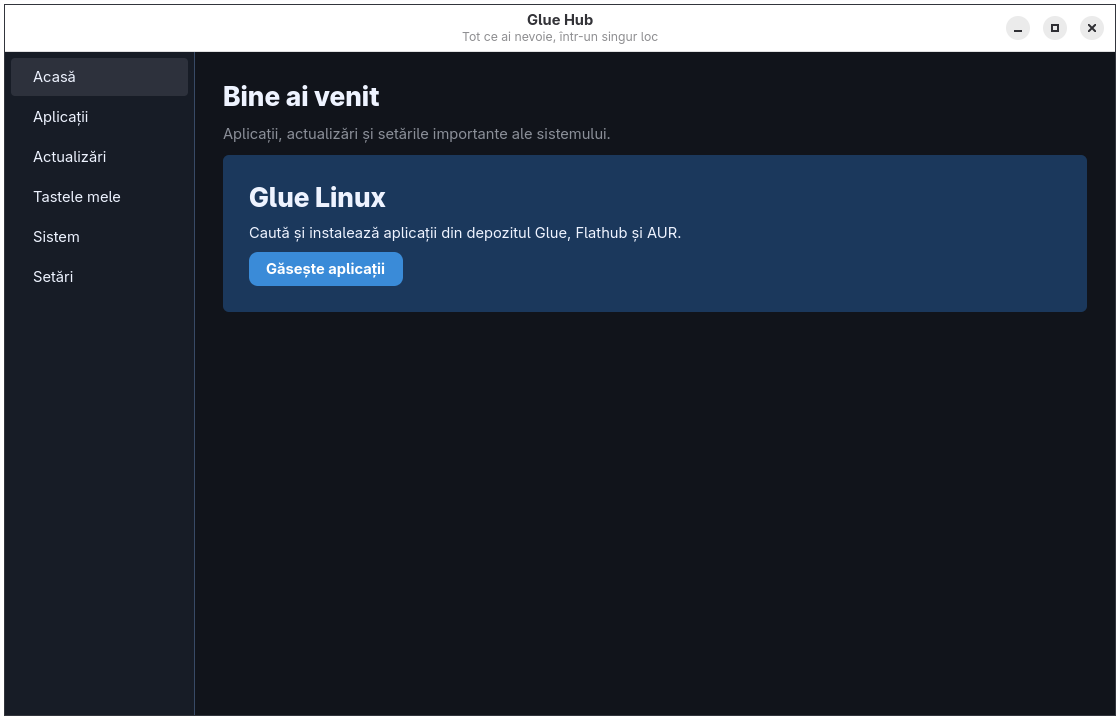
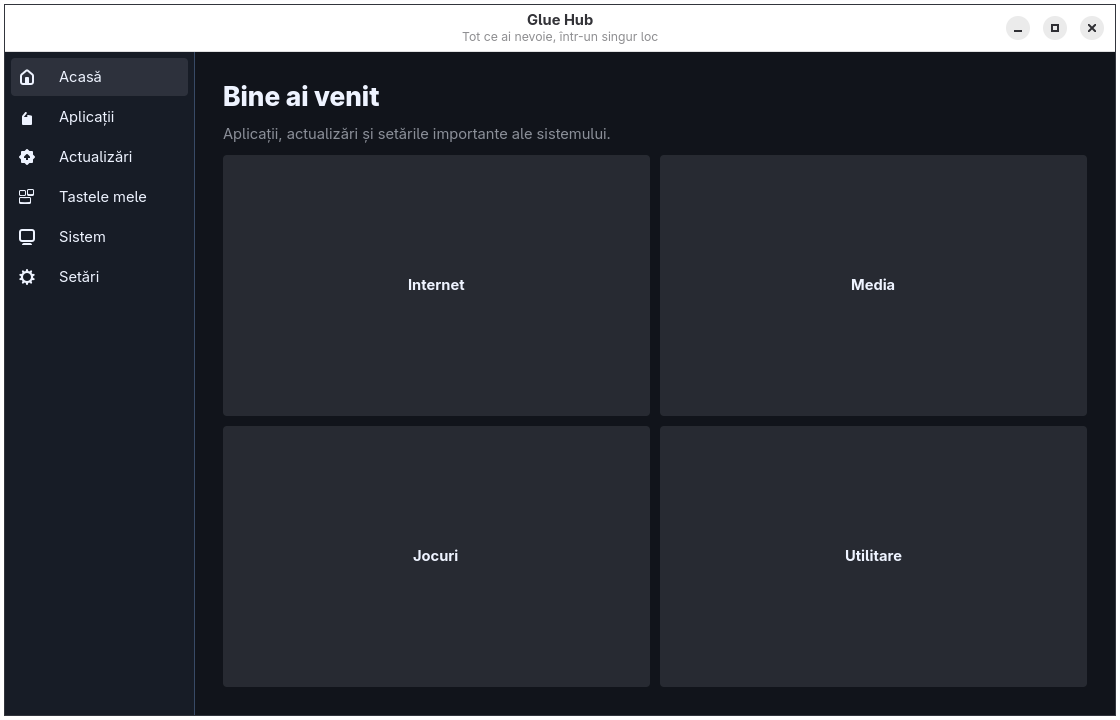
Hub: aplica layouturile celor trei teme

diff --git a/packages/glue-hub/glue_hub/ui.py b/packages/glue-hub/glue_hub/ui.py
@@ -22,6 +22,7 @@ from .model import App, AppSource
 from .pages import base_page, home_page, keys_page, system_page
 from .remote import SearchCache, aur_details, aur_search, flathub_details, flathub_search
 from .system import update_counts
+from .theming import ThemeController
 from .widgets import app_result_row
 
 
@@ -56,8 +57,9 @@ class HubWindow(Adw.ApplicationWindow):
             ["flatpak", "list", "--user", "--app", "--columns=application"])
         self.current_app: App | None = None
         self.current_sources: tuple[AppSource, ...] = ()
-        self.css_provider = Gtk.CssProvider()
         self._build()
+        self.theme_controller = ThemeController(
+            data_root, self.sidebar, self.nav_labels, self.home_hero, self.home_tiles)
         self._apply_theme(config.theme)
         self._load_local_catalog()
 
@@ -76,19 +78,29 @@ class HubWindow(Adw.ApplicationWindow):
         self.stack = Gtk.Stack(transition_type=Gtk.StackTransitionType.CROSSFADE)
         self.stack.set_hexpand(True)
         self.stack.set_vexpand(True)
-        for key, label in PAGE_NAMES.items():
+        icons = ("go-home-symbolic", "system-software-install-symbolic",
+                 "software-update-available-symbolic", "preferences-desktop-keyboard-shortcuts-symbolic",
+                 "computer-symbolic", "emblem-system-symbolic")
+        self.nav_labels = []
+        for (key, label), icon_name in zip(PAGE_NAMES.items(), icons):
             row = Gtk.ListBoxRow()
             row.page_key = key
+            content = Gtk.Box(spacing=10)
+            content.append(Gtk.Image.new_from_icon_name(icon_name))
             text = Gtk.Label(label=label, xalign=0)
             text.set_margin_top(10); text.set_margin_bottom(10)
             text.set_margin_start(14); text.set_margin_end(14)
-            row.set_child(text)
+            self.nav_labels.append(text)
+            content.append(text)
+            row.set_child(content)
             sidebar.append(row)
         sidebar.connect("row-selected", self._page_selected)
         body.append(sidebar)
+        self.sidebar = sidebar
 
-        self.stack.add_named(home_page(
-            lambda: self.stack.set_visible_child_name("apps")), "home")
+        home, self.home_hero, self.home_tiles = home_page(
+            lambda: self.stack.set_visible_child_name("apps"))
+        self.stack.add_named(home, "home")
         self.stack.add_named(self._apps_page(), "apps")
         self.stack.add_named(self._updates_page(), "updates")
         self.stack.add_named(keys_page(), "keys")
@@ -459,14 +471,7 @@ class HubWindow(Adw.ApplicationWindow):
         self.config.save(self.config_path)
 
     def _apply_theme(self, theme: str) -> None:
-        path = self.data_root / "themes" / theme / "theme.css"
-        try:
-            self.css_provider.load_from_path(str(path))
-            Gtk.StyleContext.add_provider_for_display(
-                Gdk.Display.get_default(), self.css_provider,
-                Gtk.STYLE_PROVIDER_PRIORITY_APPLICATION)
-        except GLib.Error:
-            pass
+        self.theme_controller.apply(theme)
 
 
 class HubApplication(Adw.Application):

diff --git a/packages/glue-hub/glue_hub/theming.py b/packages/glue-hub/glue_hub/theming.py
@@ -1,0 +1,46 @@
+"""Live GTK theme and layout application."""
+
+from __future__ import annotations
+
+from pathlib import Path
+
+from gi.repository import Gdk, GLib, Gtk
+
+from .config import load_layout
+
+
+class ThemeController:
+    def __init__(self, data_root: Path, sidebar: Gtk.ListBox,
+                 nav_labels: list[Gtk.Label], hero: Gtk.Widget,
+                 tiles: Gtk.Widget) -> None:
+        self.data_root = data_root
+        self.sidebar = sidebar
+        self.nav_labels = nav_labels
+        self.hero = hero
+        self.tiles = tiles
+        self.css = Gtk.CssProvider()
+        self.layout_css = Gtk.CssProvider()
+        display = Gdk.Display.get_default()
+        for provider in (self.css, self.layout_css):
+            Gtk.StyleContext.add_provider_for_display(
+                display, provider, Gtk.STYLE_PROVIDER_PRIORITY_APPLICATION)
+
+    def apply(self, theme: str) -> None:
+        try:
+            self.css.load_from_path(
+                str(self.data_root / "themes" / theme / "theme.css"))
+        except GLib.Error:
+            return
+        layout = load_layout(self.data_root / "themes", theme)
+        compact = layout["density"] == "compact"
+        airy = layout["density"] == "airy"
+        padding = 5 if compact else 12 if airy else 8
+        self.layout_css.load_from_string(
+            f".hero, .tile-button {{ border-radius: {layout['card_radius']}px; }} "
+            f".app-row {{ padding-top: {padding}px; padding-bottom: {padding}px; }}")
+        icons_only = layout["sidebar"] == "icons"
+        self.sidebar.set_size_request(82 if icons_only else 190, -1)
+        for label in self.nav_labels:
+            label.set_visible(not icons_only)
+        self.hero.set_visible(bool(layout["hero"]))
+        self.tiles.set_visible(not bool(layout["hero"]))

diff --git a/packages/glue-hub/glue_hub/pages.py b/packages/glue-hub/glue_hub/pages.py
@@ -25,7 +25,7 @@ def base_page(title: str, subtitle: str = "") -> Gtk.Box:
     return page
 
 
-def home_page(open_apps) -> Gtk.Widget:
+def home_page(open_apps) -> tuple[Gtk.Widget, Gtk.Widget, Gtk.Widget]:
     page = base_page(
         "Bine ai venit", "Aplicații, actualizări și setările importante ale sistemului.")
     hero = Gtk.Box(orientation=Gtk.Orientation.VERTICAL, spacing=10)
@@ -41,7 +41,16 @@ def home_page(open_apps) -> Gtk.Widget:
     button.connect("clicked", lambda _button: open_apps())
     hero.append(button)
     page.append(hero)
-    return page
+    tiles = Gtk.Grid(column_spacing=10, row_spacing=10)
+    for index, label in enumerate(("Internet", "Media", "Jocuri", "Utilitare")):
+        tile = Gtk.Button(label=label, hexpand=True, vexpand=True)
+        tile.add_css_class("tile-button")
+        tile.set_size_request(180, 90)
+        tile.connect("clicked", lambda _button: open_apps())
+        tiles.attach(tile, index % 2, index // 2, 1, 1)
+    tiles.set_visible(False)
+    page.append(tiles)
+    return page, hero, tiles
 
 
 def keys_page() -> Gtk.Widget:

diff --git a/packages/glue-hub/glue_hub/config.py b/packages/glue-hub/glue_hub/config.py
@@ -9,6 +9,8 @@ from pathlib import Path
 
 
 THEMES = ("glue", "vitrina", "mozaic")
+DEFAULT_LAYOUT = {"card_radius": 14, "density": "comfortable",
+                  "hero": True, "sidebar": "left"}
 
 
 @dataclass
@@ -62,3 +64,13 @@ def validate_themes(root: Path) -> list[str]:
         except (OSError, ValueError):
             errors.append(f"{theme}: invalid layout.json")
     return errors
+
+
+def load_layout(root: Path, theme: str) -> dict:
+    try:
+        data = json.loads((root / theme / "layout.json").read_text(encoding="utf-8"))
+    except (OSError, ValueError):
+        return dict(DEFAULT_LAYOUT)
+    result = dict(DEFAULT_LAYOUT)
+    result.update({key: data[key] for key in DEFAULT_LAYOUT if key in data})
+    return result

diff --git a/packages/glue-hub/tests/test_config_system.py b/packages/glue-hub/tests/test_config_system.py
@@ -8,7 +8,7 @@ from pathlib import Path
 ROOT = Path(__file__).parent.parent
 sys.path.insert(0, str(ROOT))
 
-from glue_hub.config import HubConfig, THEMES, validate_themes
+from glue_hub.config import HubConfig, THEMES, load_layout, validate_themes
 from glue_hub.system import parse_checkupdates, parse_flatpak_updates, parse_sensors
 
 
@@ -34,6 +34,7 @@ class TestConfig(unittest.TestCase):
         theme_root = ROOT / "data" / "themes"
         self.assertEqual(validate_themes(theme_root), [])
         self.assertEqual(set(path.name for path in theme_root.iterdir()), set(THEMES))
+        self.assertFalse(load_layout(theme_root, "mozaic")["hero"])
 
 
 class TestUpdateParsers(unittest.TestCase):

diff --git a/packages/glue-hub/glue_hub/widgets.py b/packages/glue-hub/glue_hub/widgets.py
@@ -39,6 +39,7 @@ def app_result_row(
     """Build a result row and fill a remote icon without blocking the UI."""
     row = Gtk.ListBoxRow()
     row.app_model = app
+    row.add_css_class("app-row")
     content = Gtk.Box(orientation=Gtk.Orientation.HORIZONTAL, spacing=12)
     content.set_margin_top(8); content.set_margin_bottom(8)
     content.set_margin_start(10); content.set_margin_end(10)

diff --git a/.orchestrator/ROADMAP.md b/.orchestrator/ROADMAP.md
@@ -118,7 +118,7 @@ Decizie (user, 2026-10-03, ADR-017): un singur magazin pe TOATE sesiunile = Glue
 - [ ] 7.5 **Pagina Actualizări**: buton mare „Actualizează tot” = `pkexec /usr/lib/glue-hub/update.sh` (`pacman -Syu --noconfirm`, apoi `flatpak update -y` dacă există flatpak), output live într-un panou expandabil, rezumat final, „Repornește” dacă s-a schimbat kernelul; badge cu numărul de update-uri pe sidebar (`checkupdates` din pacman-contrib — verifică că există în world — + `flatpak remote-ls --updates`), verificat DOAR la deschiderea Hub-ului și la apăsarea „Verifică”, niciodată dintr-un daemon. update.sh refuză `-Syu` când e `nvidia-open-dkms` fără `linux-cachyos-headers` și explică. „Ultima actualizare: <dată>”. Notă vizibilă o singură dată: „Steam se actualizează singur când îl deschizi.”
 - [ ] 7.6 **Tastele mele**: keybind-urile sesiunii CURENTE (XDG_CURRENT_DESKTOP / XDG_SESSION_DESKTOP) din `/usr/share/glue/catalog.json` (installerul îl copiază pe țintă) + shell-ul ales; buton „Deschide configul”.
 - [ ] 7.7 **Sistem**: OS/kernel/WM/RAM/GPU/temperaturi (lm_sensors), „Font terminal +/−” (termfont, Faza 8), „Mod performanță/echilibrat/economie” (powerprofilesctl), „Mod joc: dezactivează efectele și permite tearing” (scrie configul gluewc + `gluewc-msg reload`), „Deschide terminalul”. Căutarea avansată repo/AUR este o secțiune în pagina Aplicații a Hub-ului; nu deschide alt magazin.
-- [ ] 7.8 **Teme vizuale** (cerința userului 2026-10-03): în Setări, selector „Aspect” cu minimum trei teme, persistat în `~/.config/glue/hub.conf` (`theme=`), aplicat live. Fiecare temă = un fișier CSS GTK4 în `/usr/share/glue-hub/themes/<nume>/theme.css` + un fișier de layout (`layout.json`: forma cardurilor, raze, umbre, densitate, dacă pagina de start are banner „hero” mare sau grilă de tile-uri, poziția sidebarului). Temele: (1) **„Glue”** (default): amber pe aproape-negru din `palette.json`, carduri rotunjite, umbre discrete; (2) **„Vitrină”** — inspirată de magazinele de aplicații de pe desktop-urile comerciale în stil deschis: fundal alb/gri cald, carduri mari foarte rotunjite (16–20 px), banner hero cu o aplicație „a săptămânii”, tipografie mare și aerisită, sidebar îngust cu iconițe; (3) **„Mozaic”** — inspirată de magazinele în stil tile-uri: fundal întunecat, grilă de tile-uri dreptunghiulare cu accent albastru/colorat per categorie, rânduri orizontale derulabile, iconițe mari pe fundal colorat; (4) opțional **„Sticlă”**: întunecat cu transparență/blur pe gluewc (scenefx) și carduri translucide. REGULĂ: inspirate ca structură și proporții, dar FĂRĂ nume, logo-uri, iconițe sau fonturi proprietare ale Apple/Microsoft în cod, în nume de temă sau în capturi — numele temelor sunt cele de mai sus. Capturi de ecran cu fiecare temă (headless, container) în `packages/glue-hub/screenshots/` și în README. Temele se aplică și paginii de detalii și dialogurilor de progres, nu doar listei.
+- [x] 7.8 **Teme vizuale** (cerința userului 2026-10-03): în Setări, selector „Aspect” cu minimum trei teme, persistat în `~/.config/glue/hub.conf` (`theme=`), aplicat live. Fiecare temă = un fișier CSS GTK4 în `/usr/share/glue-hub/themes/<nume>/theme.css` + un fișier de layout (`layout.json`: forma cardurilor, raze, umbre, densitate, dacă pagina de start are banner „hero” mare sau grilă de tile-uri, poziția sidebarului). Temele: (1) **„Glue”** (default): amber pe aproape-negru din `palette.json`, carduri rotunjite, umbre discrete; (2) **„Vitrină”** — inspirată de magazinele de aplicații de pe desktop-urile comerciale în stil deschis: fundal alb/gri cald, carduri mari foarte rotunjite (16–20 px), banner hero cu o aplicație „a săptămânii”, tipografie mare și aerisită, sidebar îngust cu iconițe; (3) **„Mozaic”** — inspirată de magazinele în stil tile-uri: fundal întunecat, grilă de tile-uri dreptunghiulare cu accent albastru/colorat per categorie, rânduri orizontale derulabile, iconițe mari pe fundal colorat; (4) opțional **„Sticlă”**: întunecat cu transparență/blur pe gluewc (scenefx) și carduri translucide. REGULĂ: inspirate ca structură și proporții, dar FĂRĂ nume, logo-uri, iconițe sau fonturi proprietare ale Apple/Microsoft în cod, în nume de temă sau în capturi — numele temelor sunt cele de mai sus. Capturi de ecran cu fiecare temă (headless, container) în `packages/glue-hub/screenshots/` și în README. Temele se aplică și paginii de detalii și dialogurilor de progres, nu doar listei.
 - [ ] 7.9 **Autostart + Live**: bifă „Arată Glue Hub la pornire” (default ON) în `hub.conf` (`autostart=0/1`); wrapperul de sesiune pornește Hub-ul doar dacă autostart != 0; buton „Nu mai arăta”; .desktop în meniu + keybind Super+F1 în gluewc/nvwm (și în catalog). Pe live: pagina „Live” cu banner „Rulezi de pe stick — apasă Instalează” (Faza 10.1).
 - [ ] 7.10 Teste: unit pe catalog (parsare AppStream real din pachetul artixlinux-appstream-data descărcat în container, deduplicare, căutare, cache offline, categorii), pe parsarea `checkupdates`/`flatpak remote-ls`, pe teme (fiecare CSS se încarcă fără erori GTK, layout.json validat); lansare headless în container pe fiecare pagină și fiecare temă fără crash (gluewc headless + GDK_BACKEND=wayland, poze salvate); `update.sh` și `pkg.sh` testate în dry-run pe țintă E2E. API-ul Flathub se mock-uiește în teste (fixture JSON salvat o dată).
 - Criteriu: un om atehnic găsește „VLC”, vede 3 capturi, apasă Instalează, îl deschide din Hub și dă „Actualizează tot” fără să vadă vreodată cuvintele pacman/flatpak; Hub sub 60 MB pe Acasă și sub 120 MB cu galeria deschisă; teme comutabile live; totul merge offline cu ultimul catalog.
